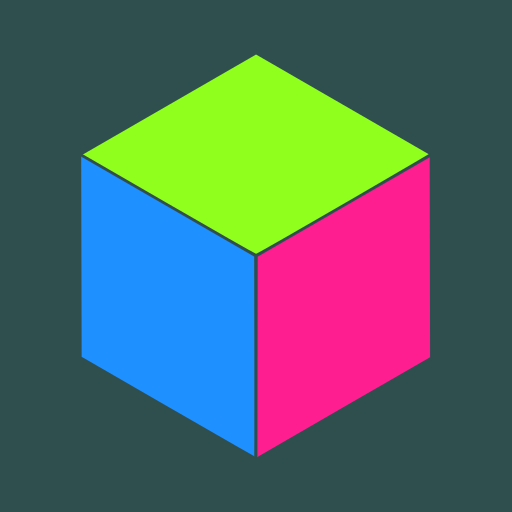
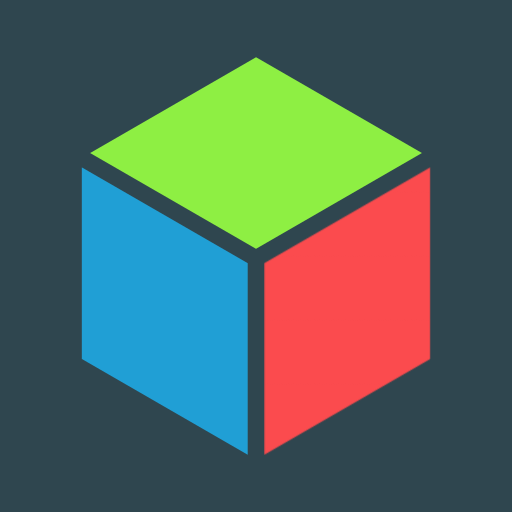
new pfps

diff --git a/src/util/message.ts b/src/util/message.ts
@@ -59,7 +59,7 @@ export const getProfilePicture = (): FileOptions => {
   const dev = process.env.NODE_ENV === 'development';
 
   const path = dev
-    ? resolvePath('assets/hexagon.dev.png')
+    ? resolvePath('assets/hexagon-dev.png')
     : resolvePath(`assets/hexagon${dec ? '-hat' : ''}.png`);
 
   return {
